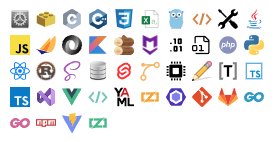
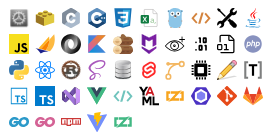
Add natvis.

diff --git a/sample/sample.html b/sample/sample.html
@@ -36,6 +36,7 @@
 		<img src="../extension/kotlin.svg" />
 		<img src="../extension/log.svg" />
 		<img src="../extension/markdown.png" />
+		<img src="../extension/natvis.svg" />
 		<img src="../extension/obj.svg" />
 		<img src="../extension/pdb.svg" />
 		<img src="../extension/php.svg" />
